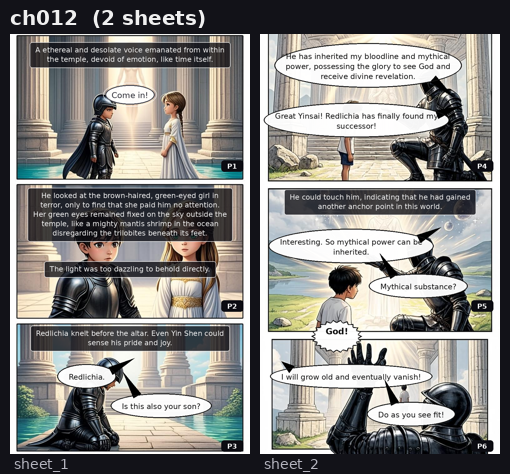
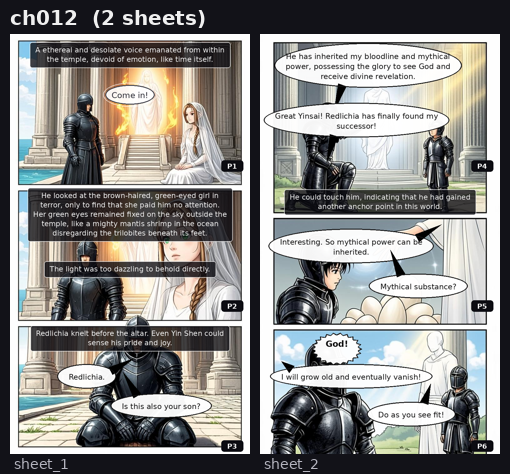
Add ch013 'The Fusion Monster Race' (2 sheets / 6 pages): god's time-soliloquy on the altar, 'Why don't you age?' with Shelly, the spiral-shell womb and brown embryo spheres, embryos launched into the sea, the Fusion Monster race erupting; Yesael fishing with his sister as a beast bursts from the wa

diff --git a/pipeline/plans/ch013.py b/pipeline/plans/ch013.py
@@ -1,0 +1,42 @@
+# Chapter 13 — The Fusion Monster Race (verbatim adaptation)
+PLAN = {
+    "chapter": 13,
+    "title": "The Fusion Monster Race",
+    "palette": "city",
+    "sheets": [
+        {
+            "sheet": 1,
+            "pages": [
+                {"page": 1, "art": "On the great temple altar @god@ sits motionless like a pale statue of pure light, completely faceless, golden sunbeams shifting across the huge stone columns to suggest passing days; @shelly@ seated beside the altar in her flowing white gauzy cloak, unchanged, gazing at the sky",
+                 "els": [{"kind": "narration", "text": "Outside the temple, the sun rose and set several times. Time and years no longer held any power over him, like a gentle breeze slipping through his fingers.", "cx": 0.5, "cy": 0.05},
+                          {"kind": "say", "text": "So I haven't been human for a long time.", "cx": 0.32, "cy": 0.195, "tx": 0.55, "ty": 0.155},
+                          {"kind": "say", "text": "What exactly am I?", "cx": 0.66, "cy": 0.265, "tx": 0.55, "ty": 0.215}]},
+                {"page": 2, "art": "Inside the temple: @god@ — a tall luminous white silhouette, completely faceless, no cloth — bends from the left, his glowing hand lifting the chin of @shelly@ seated at right, her brown braid over her shoulder, large vacant green eyes wide; soft warm light through the columns",
+                 "els": [{"kind": "narration", "text": "He looked at the Fusion Monster Shelly sitting beside him. Even after so long, Shelly remained exactly the same as before.", "cx": 0.5, "cy": 0.40},
+                          {"kind": "say", "text": "Why don't you age?", "cx": 0.62, "cy": 0.50, "tx": 0.30, "ty": 0.455},
+                          {"kind": "say", "text": "Is it because your power is life?", "cx": 0.36, "cy": 0.585, "tx": 0.30, "ty": 0.53}]},
+                {"page": 3, "art": "Dim temple interior: the colossal translucent spiral shell filled with glowing warm seawater like a giant womb, several hard brown stone-like sphere embryos floating inside it; @shelly@ at the left bending to stare into the shell; @god@ — a tall slender figure made entirely of glowing white light, completely faceless, no cloth — in the background at the right with one radiant hand raised over the shell",
+                 "els": [{"kind": "narration", "text": "She was their ancestor. The Fusion Monster Queen.", "cx": 0.5, "cy": 0.725},
+                          {"kind": "roar", "text": "Gurgle gurgle!", "cx": 0.27, "cy": 0.80},
+                          {"kind": "say", "text": "Only half successful.", "cx": 0.62, "cy": 0.885, "tx": 0.70, "ty": 0.82}]},
+            ],
+        },
+        {
+            "sheet": 2,
+            "pages": [
+                {"page": 4, "art": "Above the white stone pyramid temple: @god@ raising one luminous hand as several hard brown stone-like spheres streak out of the temple into the bright sky, light trails behind them, the sea stretching to the horizon",
+                 "els": [{"kind": "narration", "text": "Yin Shen raised his hand, and these embryos left the spiral shell, flying out of the temple.", "cx": 0.5, "cy": 0.05},
+                          {"kind": "roar", "text": "Swoosh~", "cx": 0.70, "cy": 0.155},
+                          {"kind": "narration", "text": "Hatching, birth, growth. Everything happened in an instant.", "cx": 0.5, "cy": 0.265}]},
+                {"page": 5, "art": "Sunlit shore: @daughter@ at the left in the teal shallows wearing white-lacquered chitin plate armor, her head a smooth white three-lobed trilobite shell, no face showing; small boy Yesael at the right on a huge rock wearing glossy black chitin plate armor, his head a smooth dark three-lobed trilobite shell, holding a big @afish@ aloft",
+                 "els": [{"kind": "say", "text": "Yesael! Jump in quickly!", "cx": 0.32, "cy": 0.405, "tx": 0.30, "ty": 0.45},
+                          {"kind": "say", "text": "Sister! I'm coming!", "cx": 0.66, "cy": 0.50, "tx": 0.66, "ty": 0.46},
+                          {"kind": "say", "text": "It's so big!", "cx": 0.34, "cy": 0.595, "tx": 0.62, "ty": 0.545}]},
+                {"page": 6, "art": "A colossal pale sea worm with a segmented body and round mouth erupting from the exploding sea; @tmen@ with three-lobed helmets fleeing the beach at the left; in the foreground small Yesael in glossy black chitin plate armor and @daughter@ in white-lacquered chitin plate armor, their heads smooth three-lobed trilobite shells with no faces visible, Yesael staring unblinkingly at the monster",
+                 "els": [{"kind": "roar", "text": "Boom!", "cx": 0.55, "cy": 0.745},
+                          {"kind": "say", "text": "What was that?", "cx": 0.20, "cy": 0.83, "tx": 0.28, "ty": 0.79},
+                          {"kind": "narration", "text": "A thought crossed his mind: if he possessed such tremendous power, he could surely conquer the sea.", "cx": 0.5, "cy": 0.925}]},
+            ],
+        },
+    ],
+}

diff --git a/I am God/ADAPTATION.md b/I am God/ADAPTATION.md
@@ -1,4 +1,4 @@
-# I am God — Adaptation Plan (Chapters 1-12)
+# I am God — Adaptation Plan (Chapters 1-13)
 
 Source: *I am God* (web novel, 458 chapters). This document records the chapter-by-chapter
 adaptation produced so far. Each generated image is a vertical strip of **3 manga pages**;
@@ -43,6 +43,7 @@ English translation. Generated art is **zero-text**; all lettering is overlaid p
 | 10 | Writing and Mythology | city | 2 | 6 | complete |
 | 11 | Do You See? | city | 2 | 6 | complete |
 | 12 | Mythical Blood | city | 2 | 6 | complete |
+| 13 | The Fusion Monster Race | city | 2 | 6 | complete |
 
 ## Page-by-page breakdown
 
@@ -345,4 +346,36 @@ English translation. Generated art is **zero-text**; all lettering is overlaid p
   - `roar`: "God!"
   - `say`: "I will grow old and eventually vanish!"
   - `say`: "Do as you see fit!"
+
+### Chapter 13 — The Fusion Monster Race  (palette: city)
+
+**Sheet 1**
+
+- **P1** — On the great temple altar @god@ sits motionless like a pale statue of pure light, completely faceless, golden sunbeams shifting across the huge stone columns to suggest passing days; @shelly@ seated beside the altar in her flowing white gauzy cloak, unchanged, gazing at the sky
+  - `narration`: "Outside the temple, the sun rose and set several times. Time and years no longer held any power over him, like a gentle breeze slipping through his fingers."
+  - `say`: "So I haven't been human for a long time."
+  - `say`: "What exactly am I?"
+- **P2** — Inside the temple: @god@ — a tall luminous white silhouette, completely faceless, no cloth — bends from the left, his glowing hand lifting the chin of @shelly@ seated at right, her brown braid over her shoulder, large vacant green eyes wide; soft warm light through the columns
+  - `narration`: "He looked at the Fusion Monster Shelly sitting beside him. Even after so long, Shelly remained exactly the same as before."
+  - `say`: "Why don't you age?"
+  - `say`: "Is it because your power is life?"
+- **P3** — Dim temple interior: the colossal translucent spiral shell filled with glowing warm seawater like a giant womb, several hard brown stone-like sphere embryos floating inside it; @shelly@ at the left bending to stare into the shell; @god@ — a tall slender figure made entirely of glowing white light, completely faceless, no cloth — in the background at the right with one radiant hand raised over the shell
+  - `narration`: "She was their ancestor. The Fusion Monster Queen."
+  - `roar`: "Gurgle gurgle!"
+  - `say`: "Only half successful."
+
+**Sheet 2**
+
+- **P4** — Above the white stone pyramid temple: @god@ raising one luminous hand as several hard brown stone-like spheres streak out of the temple into the bright sky, light trails behind them, the sea stretching to the horizon
+  - `narration`: "Yin Shen raised his hand, and these embryos left the spiral shell, flying out of the temple."
+  - `roar`: "Swoosh~"
+  - `narration`: "Hatching, birth, growth. Everything happened in an instant."
+- **P5** — Sunlit shore: @daughter@ at the left in the teal shallows wearing white-lacquered chitin plate armor, her head a smooth white three-lobed trilobite shell, no face showing; small boy Yesael at the right on a huge rock wearing glossy black chitin plate armor, his head a smooth dark three-lobed trilobite shell, holding a big @afish@ aloft
+  - `say`: "Yesael! Jump in quickly!"
+  - `say`: "Sister! I'm coming!"
+  - `say`: "It's so big!"
+- **P6** — A colossal pale sea worm with a segmented body and round mouth erupting from the exploding sea; @tmen@ with three-lobed helmets fleeing the beach at the left; in the foreground small Yesael in glossy black chitin plate armor and @daughter@ in white-lacquered chitin plate armor, their heads smooth three-lobed trilobite shells with no faces visible, Yesael staring unblinkingly at the monster
+  - `roar`: "Boom!"
+  - `say`: "What was that?"
+  - `narration`: "A thought crossed his mind: if he possessed such tremendous power, he could surely conquer the sea."
 
